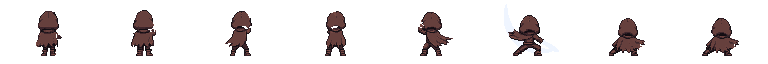
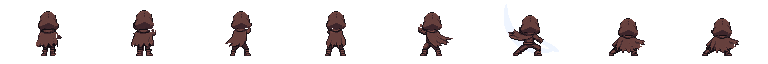
fix: 후면 공격 흔들림 줄임 (발 바닥에 붙이기, 후드 고정)
사용자 지적: 픽셀을 잘못 그려 생기는 흔들림. 장마다 따로 그려 발이 1~4 픽셀 뜨거나 묻히고
후드 모양·자리가 장마다 달랐다. 장 옮김 표로 발·후드 자리를 맞추고, 후드를 서기 그림 후드로 바꿔 끼움.

diff --git a/assets/concepts/pixellab/player_import/stabilize_back.py b/assets/concepts/pixellab/player_import/stabilize_back.py
@@ -1,0 +1,70 @@
+"""후면 공격 흔들림 줄이기: 후드를 서기 그림의 후드로 바꿔 끼운다 (2026-11-19 사용자: 픽셀을 잘못 그려 생기는 흔들림).
+
+후면 공격 8장은 장마다 따로 그려 후드 모양·너비(17~20 픽셀)·테두리가 장마다 달라 재생하면 머리가 꿈틀거렸다.
+화면에서 가장 크게 보이는 후드를 게임 뒷모습 서기 그림(idle/back.png 첫 장)의 후드와 똑같이 맞춘다:
+장마다 후드 꼭대기·가운데를 찾아 그 자리에 서기 그림 후드(2~18줄)를 놓고, 그 줄들에서 서기 후드 밖으로 삐져나온
+예전 후드 픽셀은 지운다. 같은 서기 후드에서 늘 다시 만들므로 여러 번 돌려도 결과가 같다.
+export_to_game.py 가 후면 공격 그림을 쓴 뒤 apply_sheet 를 부른다.
+"""
+import os
+
+from PIL import Image
+
+HERE = os.path.dirname(os.path.abspath(__file__))
+PLAYER = os.path.normpath(os.path.join(HERE, '..', '..', '..', 'images', 'player'))
+HOOD_ROWS = (2, 18)  # 서기 그림(32×48)에서 후드 줄 (꼭대기 ~ 어깨 위 테두리 전)
+CLEAR_ROWS = 12  # 후드 위쪽 이만큼 줄에서만 서기 후드 밖 픽셀을 지운다 (아래는 팔·어깨가 붙어 있을 수 있음)
+
+
+def is_body(c):
+    """몸 픽셀: 불투명하고 잔상(흰빛)이 아님."""
+    return c[3] > 128 and not (c[0] > 200 and c[2] > 200)
+
+
+def idle_hood():
+    idle = Image.open(os.path.join(PLAYER, 'idle', 'back.png')).convert('RGBA').crop((0, 0, 32, 48))
+    y0, y1 = HOOD_ROWS
+    hood = idle.crop((0, y0, 32, y1 + 1))
+    xs = [x for y in range(hood.height) for x in range(32) if hood.getpixel((x, y))[3] > 128]
+    return hood, (min(xs) + max(xs)) / 2
+
+
+def hood_anchor(frame):
+    """장의 후드 꼭대기 줄과 가로 가운데 (꼭대기에서 6줄)."""
+    px = frame.load()
+    rows = [y for y in range(frame.height) if any(is_body(px[x, y]) for x in range(frame.width))]
+    top = rows[0]
+    xs = [x for y in range(top, top + 7) for x in range(frame.width) if is_body(px[x, y])]
+    return top, (min(xs) + max(xs)) / 2
+
+
+def apply_frame(frame, hood, hood_cx):
+    out = frame.copy()
+    px = out.load()
+    top, cx = hood_anchor(frame)
+    ox = round(cx - hood_cx)
+    hpx = hood.load()
+    mask = {(x + ox, y + top) for y in range(hood.height) for x in range(hood.width) if hpx[x, y][3] > 128}
+    # 서기 후드 밖으로 삐져나온 예전 후드 픽셀 지우기 (위쪽 줄만, 잔상은 그대로)
+    for y in range(top, top + CLEAR_ROWS):
+        for x in range(frame.width):
+            if (x, y) not in mask and is_body(px[x, y]):
+                px[x, y] = (0, 0, 0, 0)
+    for (x, y) in mask:
+        if 0 <= x < out.width and 0 <= y < out.height:
+            px[x, y] = hpx[x - ox, y - top]
+    return out
+
+
+def apply_sheet(path, frames=8, skip=()):
+    """시트의 장마다 후드를 바꿔 끼운다. skip: 바꾸지 않을 장 번호(0 부터, 후드가 크게 기울거나 가려진 장)."""
+    sheet = Image.open(path).convert('RGBA')
+    w = sheet.width // frames
+    hood, hood_cx = idle_hood()
+    out = sheet.copy()
+    for k in range(frames):
+        if k in skip:
+            continue
+        cell = sheet.crop((k * w, 0, (k + 1) * w, sheet.height))
+        out.paste(apply_frame(cell, hood, hood_cx), (k * w, 0))
+    out.save(path)

diff --git a/game/config.py b/game/config.py
@@ -216,11 +216,16 @@ PLAYER_ATTACK_FRAME_ENDS_BACK = (
     (0.06, 0.12, 0.19, 0.25, 0.4, 0.6, 0.8, 1.0),
     (0.18, 0.25, 0.29, 0.33, 0.5, 0.7, 0.85, 1.0),
 )
-# 후면 그림 옮김 (원본 픽셀, (앞쪽 +, 위쪽 +)): 1타 내려벨 때 몸을 앞(화면 위)으로 2픽셀 내디딤 (베는 느낌, 2026-11-18).
+# 후면 그림 옮김 (원본 픽셀, (오른쪽 +, 위쪽 +)). 흔들림 잡기 (2026-11-19 사용자: 픽셀을 잘못 그려 생기는 흔들림):
+# 장마다 따로 그린 그림이라 발이 바닥 줄(55)에서 1~4 픽셀 뜨거나 묻히고, 몸이 그대로인 장끼리도 후드 가운데가 1~1.5 픽셀
+# 좌우로 흔들렸다. 발을 바닥 줄에 붙이고, 같은 자세가 이어지는 장은 후드 가운데를 한 자리에 둔다 (그림은 그대로, 장 전체만 옮김).
 PLAYER_ATTACK_FRAME_SHIFTS_BACK = (
-    ((0, 0),) * 8,  # 1타: ChatGPT 그림에 내디딤이 들어 있어 옮기지 않음 (3차)
-    ((0, 0),) * 8,
-    ((0, 0),) * 8,
+    # 1타: 1~5 들어 올림 (후드 48), 7·8 낮은 마무리 (후드 50)
+    ((0, 0), (0, 0), (-1, 0), (0, 0), (1, 0), (0, 0), (-1, 0), (1, 0)),
+    # 2타: 1~4 칼 늘어뜨림 (후드 48, 1번은 4 픽셀 떠 있었음), 6~8 칼을 왼쪽 위로 든 채 (후드 48)
+    ((0, -4), (1, 0), (0, 1), (1, 0), (0, 1), (-2, 0), (0, 0), (0, 0)),
+    # 3타: 1~5 허리로 당김 (후드 47~48, 2·4·5번은 1 픽셀 묻힘), 6~8 찌르기 (후드 47, 6번은 2 픽셀 묻힘)
+    ((0, 0), (0, 1), (0, 0), (0, 1), (0, 1), (-1, 2), (0, 0), (0, 0)),
 )
 # 두 손 잡기: 게임은 몸 → 칼 → 손 레이어(sword_attack/<방향>_N_hand.png) 순서로 그려 손이 칼을 쥔 모습이 된다.
 # 칼이 몸 뒤인 프레임(네 번째 값 True)은 칼 → 몸 순서로 그린다 (2타에서 칼을 머리 뒤로 넘길 때).

diff --git a/assets/concepts/pixellab/player_import/export_to_game.py b/assets/concepts/pixellab/player_import/export_to_game.py
@@ -122,6 +122,10 @@ def export_attacks(view='side'):
             hx, hy, angle, behind, *rest = layer['sword']
             table.append((round(hx + dx), round(hy + dy), round(angle), behind) + tuple(rest))
         body.save(os.path.join(OUT, 'sword_attack', f'{view}_{hit}.png'))
+        if view == 'back':
+            # 후면은 장마다 따로 그려 후드가 꿈틀거림 → 서기 그림 후드로 바꿔 끼움 (2026-11-19, stabilize_back.py)
+            import stabilize_back
+            stabilize_back.apply_sheet(os.path.join(OUT, 'sword_attack', f'{view}_{hit}.png'))
         hand.save(os.path.join(OUT, 'sword_attack', f'{view}_{hit}_hand.png'))
         if art_frames:
             # 찌르기용 칼 그림 (무기마다 하나, 공격 시트와 같은 칸): weapons/<무기>_<방향>_<타>.png

diff --git a/docs/DECISIONS.md b/docs/DECISIONS.md
@@ -790,6 +790,12 @@
     3타 1~5: 칼날이 몸 밖으로 나오는 자리 조금 안쪽을 손으로 잡고 칼을 온 길이로 (전엔 손잡이를 숨기려 짧게 그려 단검처럼 보임).
     3타 6~8: 손을 후드 속으로 내려 가드를 숨기고 찌른 칼날이 후드 위로 길게 보이게.
     후면 2·3타는 ChatGPT 가 그린 파란 칼을 잔상으로 쓰지 않음(`NO_SMEAR`, 2타 5번째 잔상 장만 예외) — 칼을 옮기니 옛 칼 자리가 희미한 잔상으로 남았다.
+  - (2026-11-19 사용자: 지금 것이 시험판(서기 그림 움직이기)보다 훨씬 나음, 다만 픽셀을 잘못 그려 생기는 흔들림이 있음)
+    시험판(`build_attack_back_rig.py`)은 쓰지 않고 지금 그림을 다듬었다. 흔들림 원인 세 가지:
+    ① 장마다 발이 바닥 줄에서 1~4 픽셀 뜨거나 묻히고 후드 가운데가 1~1.5 픽셀 좌우로 흔들림 → `PLAYER_ATTACK_FRAME_SHIFTS_BACK`
+    으로 장 전체를 옮겨 발을 바닥에 붙이고 같은 자세가 이어지는 장은 후드를 한 자리에.
+    ② 장마다 후드 모양·너비가 달라 머리가 꿈틀거림 → 서기 그림 후드로 바꿔 끼움 (`stabilize_back.py`, 내보낼 때 자동).
+    ③ 공격 버튼을 누르고 있으면 타 사이에 서기 그림이 한 프레임 끼어 깜빡임 (모든 방향) → 끝난 프레임에 바로 다음 타.
 
 ## D-049 등에 멘 칼
 
